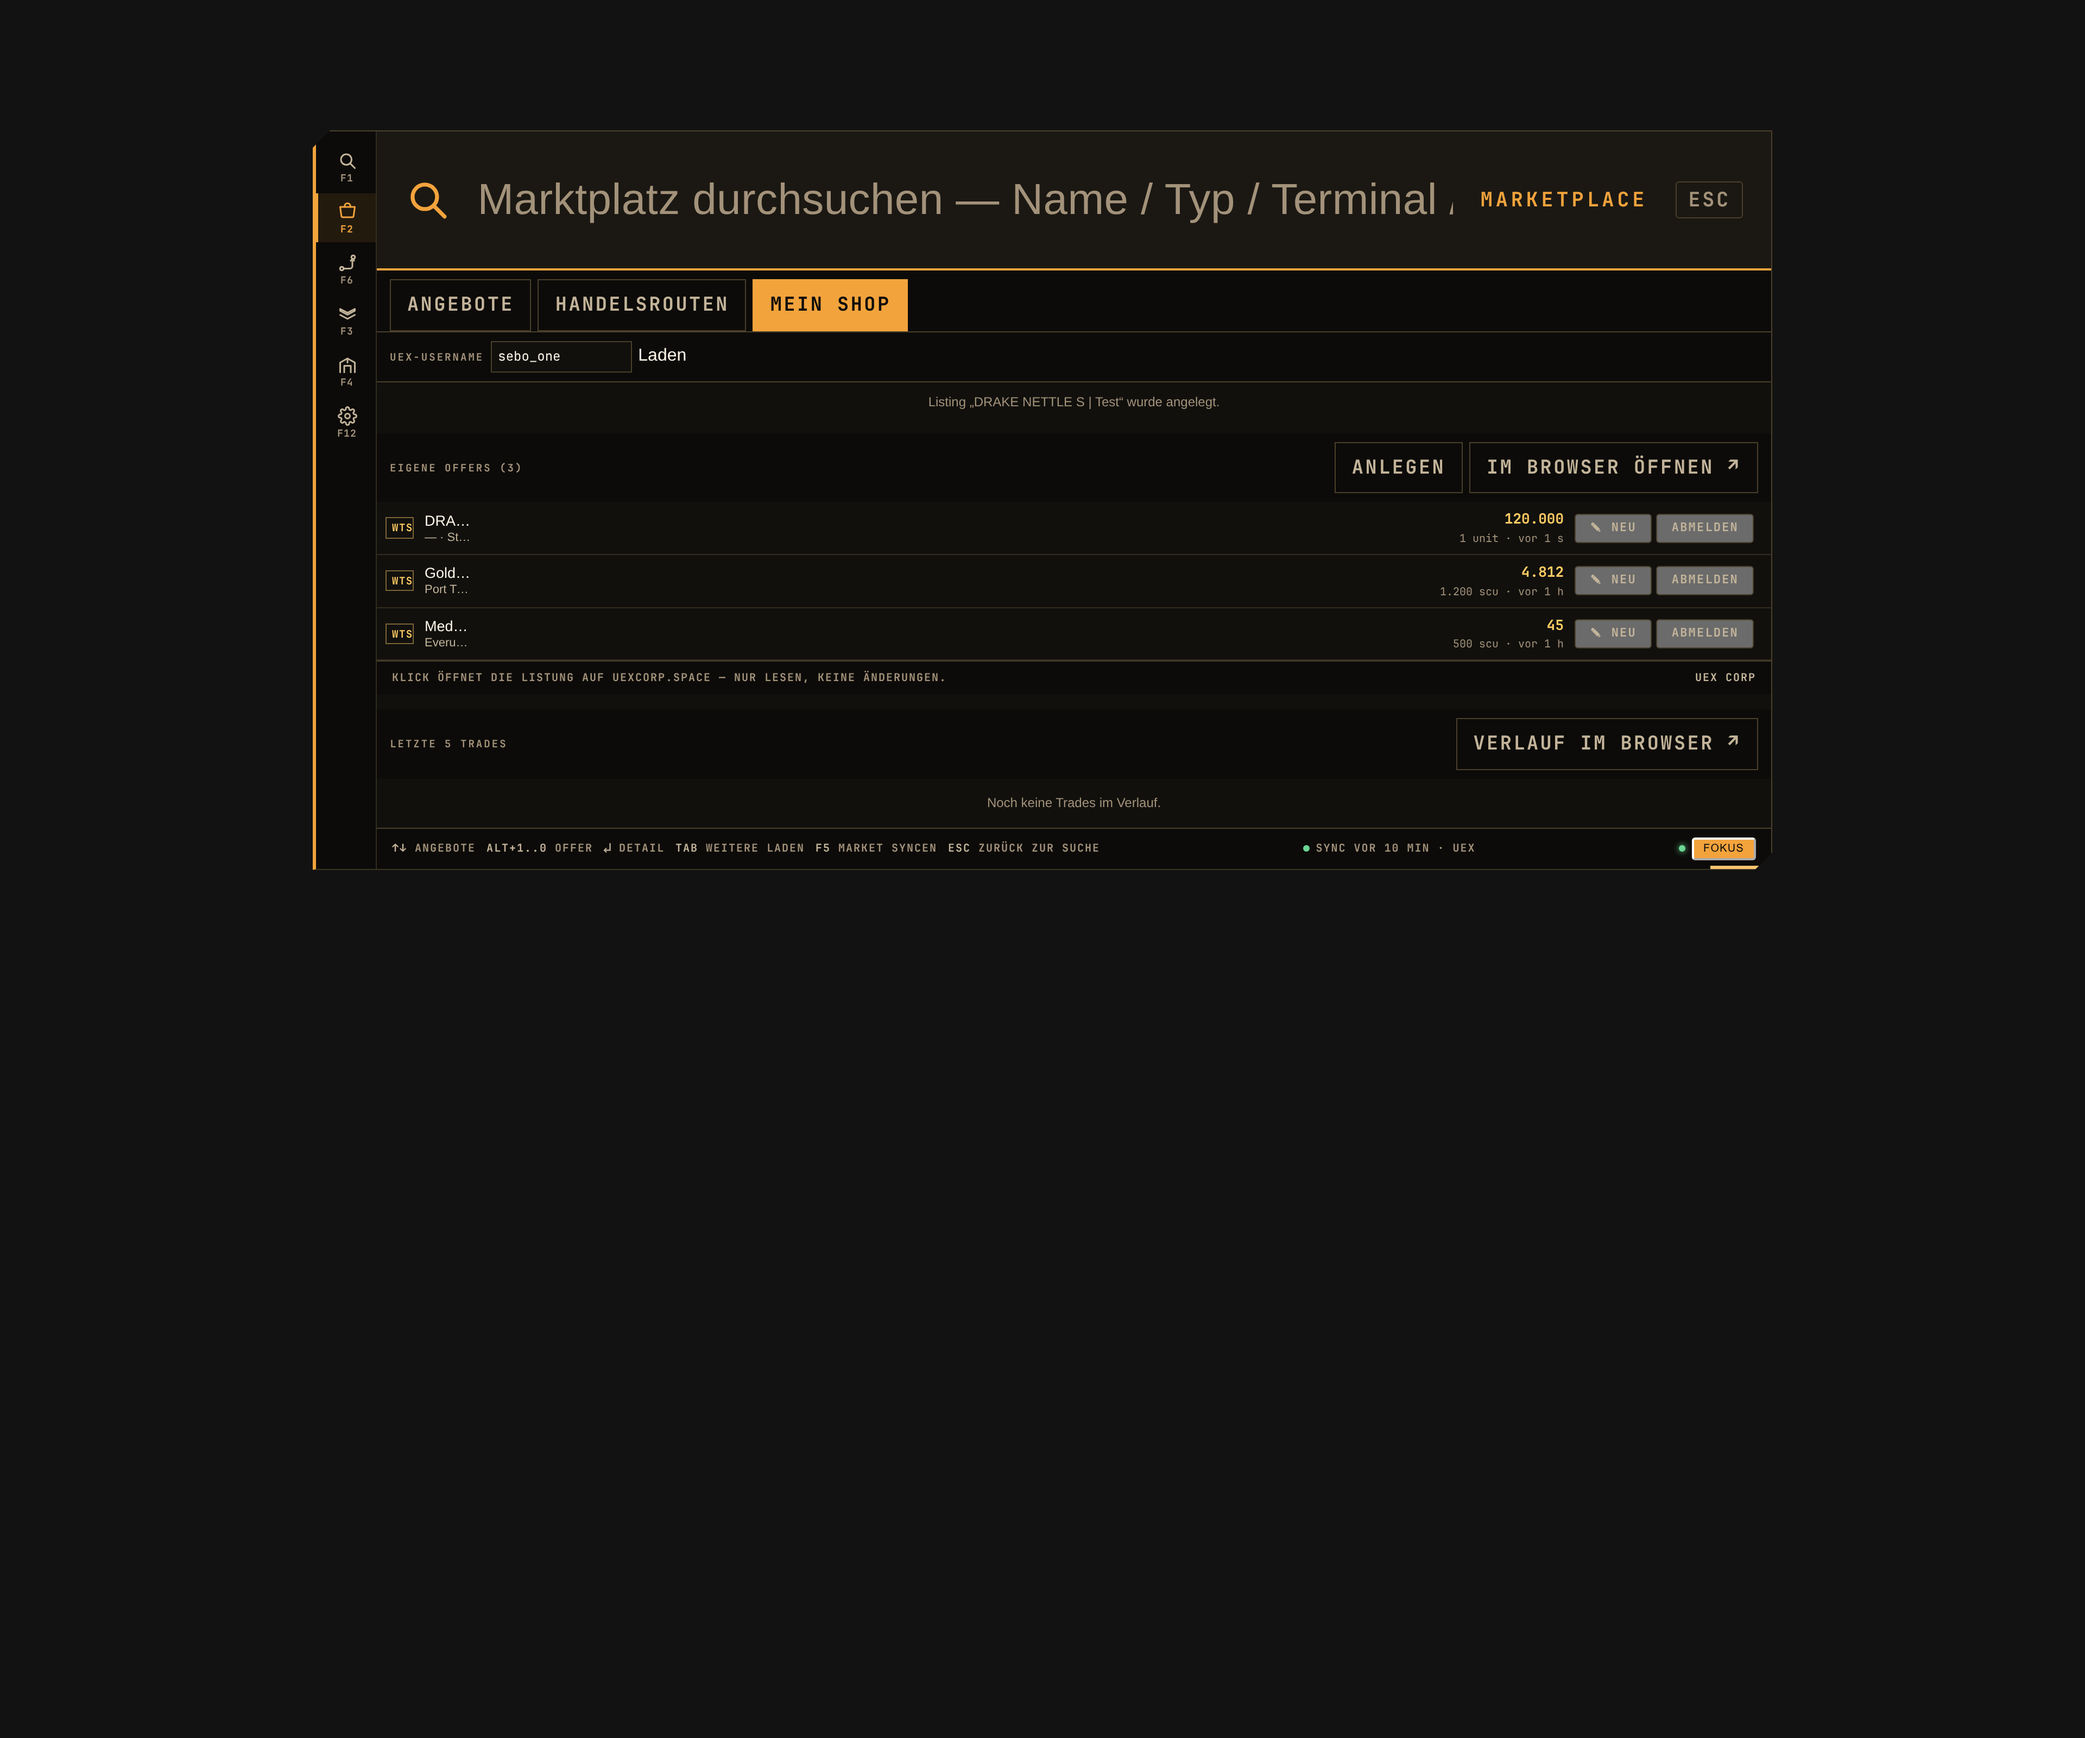
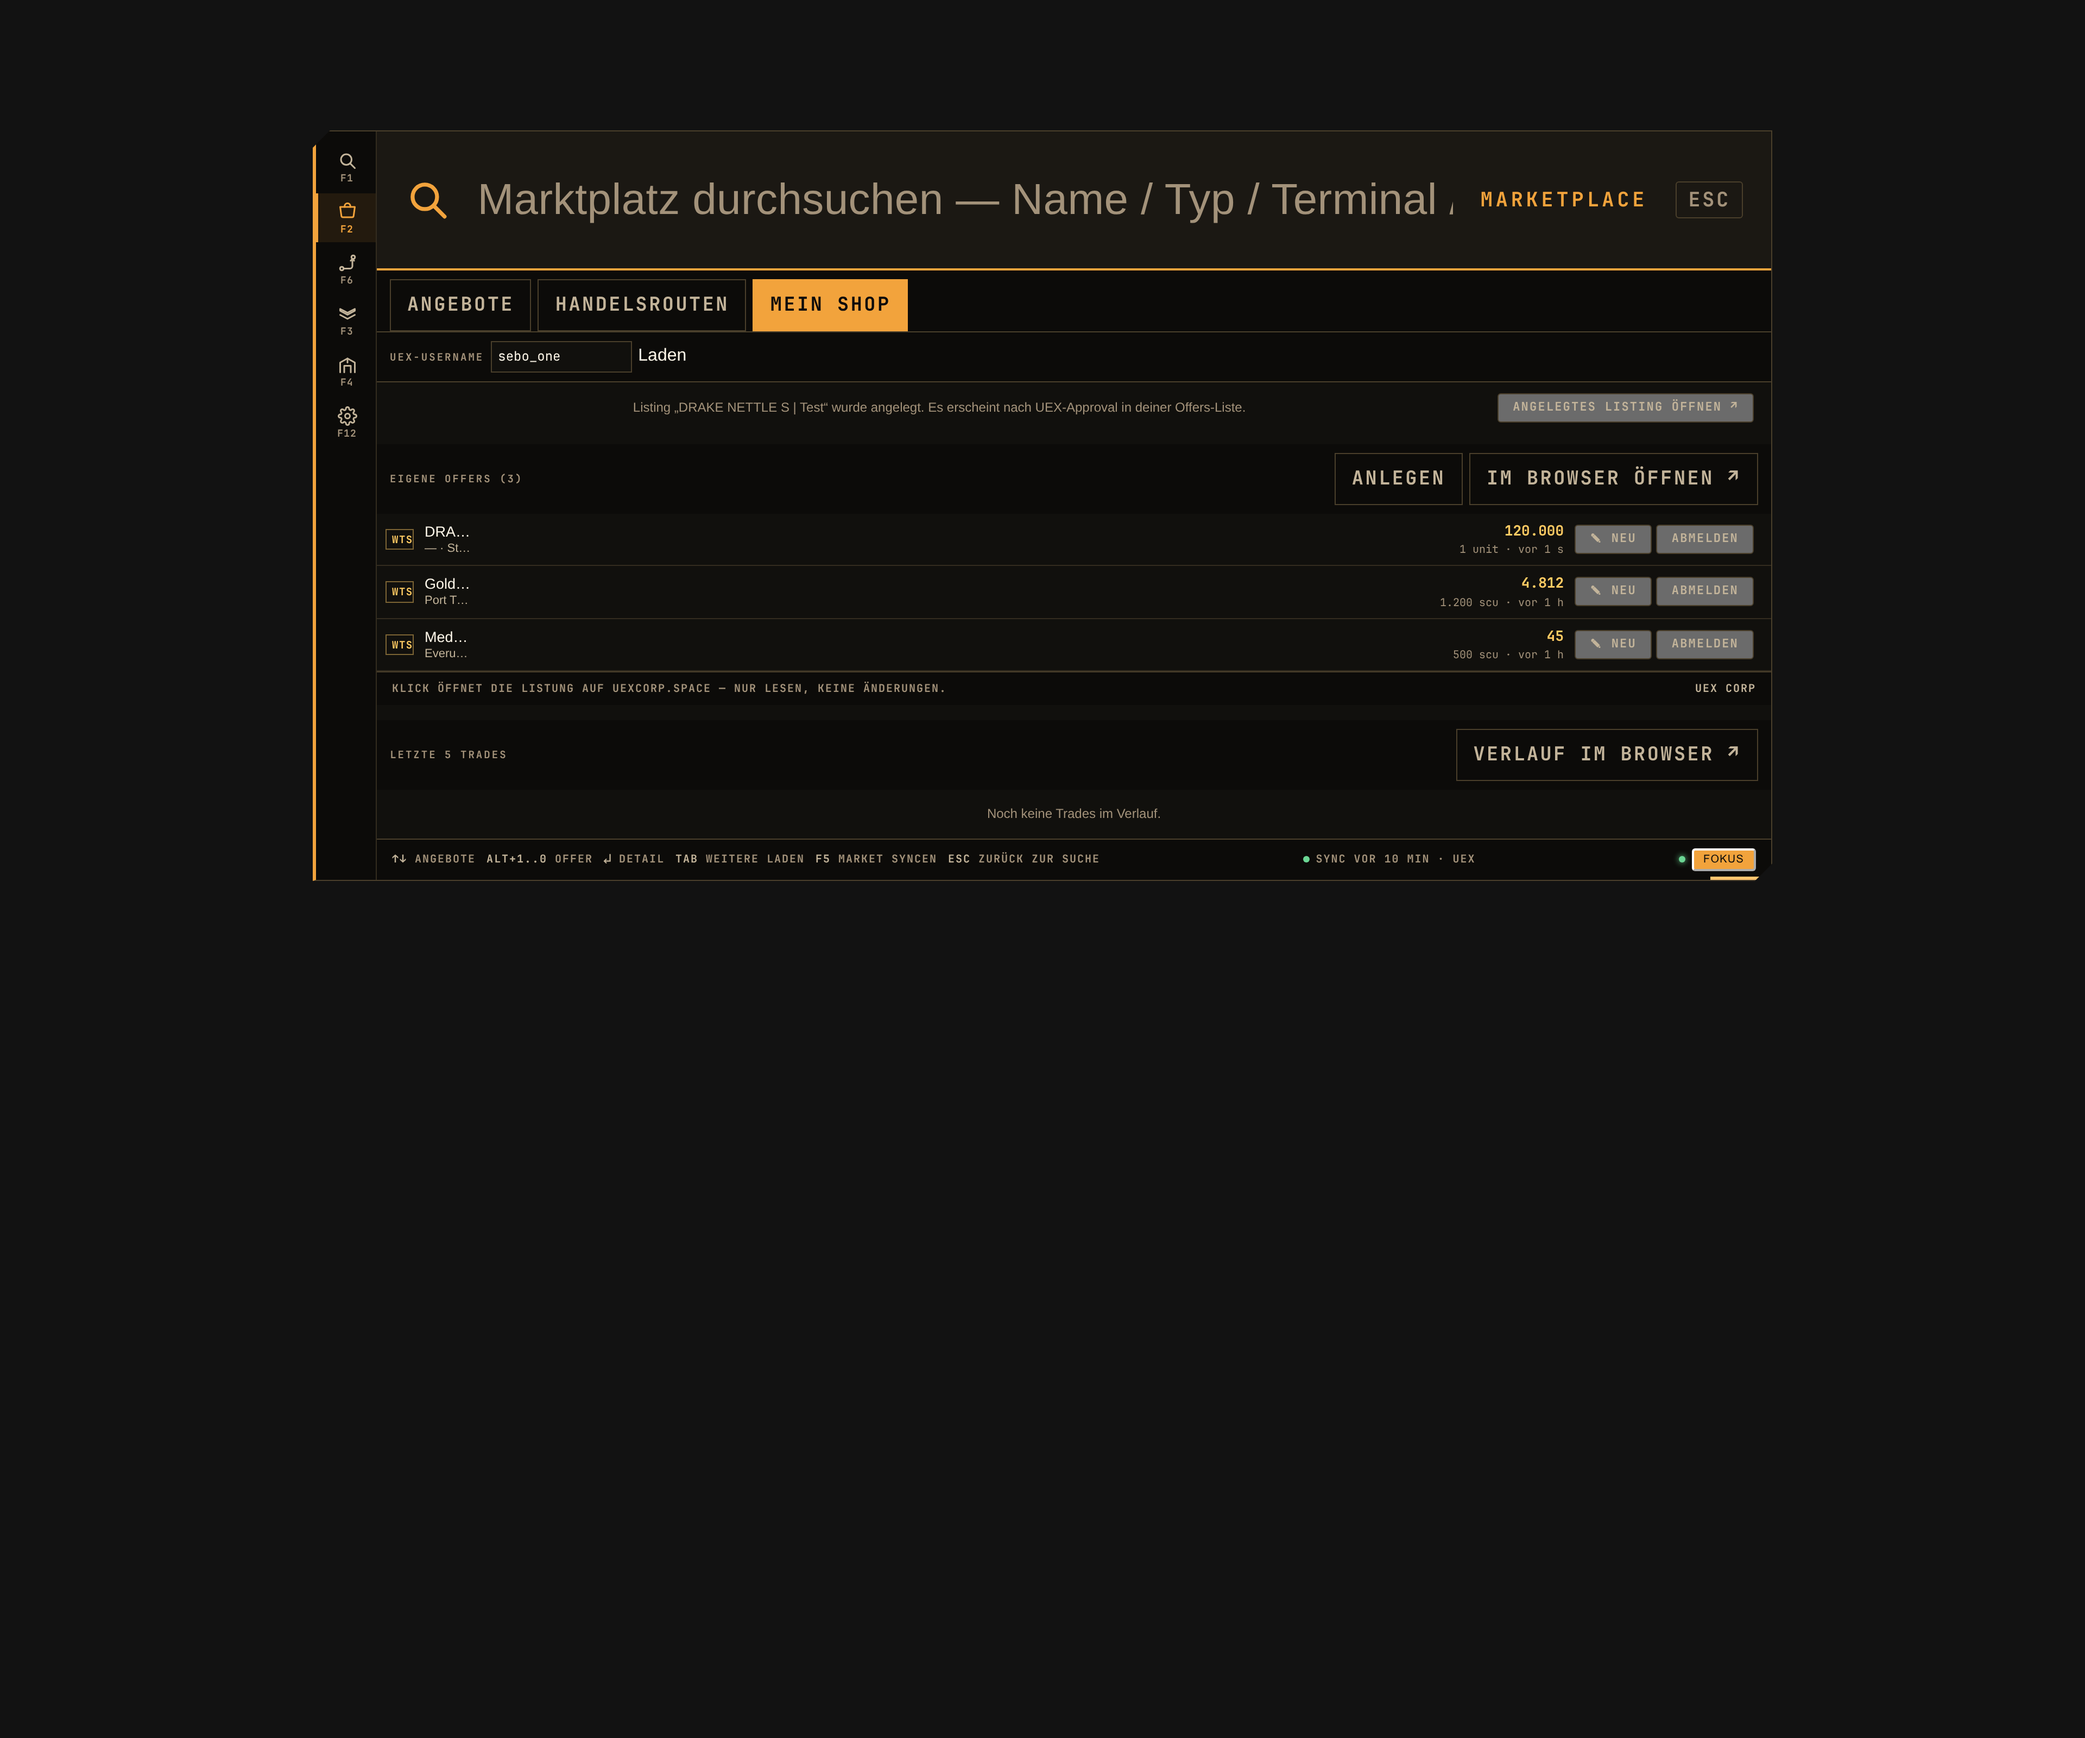
M2b Fix t_6e26ec82 R2 (Belege): Probe W1 assertet Erfolgs-Deep-Link {id,url} aus der Create-Response; Stub gibt url zurück

diff --git a/docs/scripts/smoke-stub.js b/docs/scripts/smoke-stub.js
@@ -169,6 +169,10 @@ window.__TAURI_INTERNALS__ = {
 				if (window.__SHOP_WRITE_FAIL__) throw new Error(window.__SHOP_WRITE_ERR__ || 'HTTP 429 · Rate-Limit erreicht');
 				const nid = 90000 + Math.floor(Math.random() * 9000);
 				const p = a.payload || {};
+				// M2b-Review-Fix (t_6e26ec82 R2): die Create-Antwort von UEX ist
+				// KEIN Offer — `{ id, url }` (der Deep-Link der Listung). Daran
+				// hängt die UI-Erfolgsmeldung, NICHT an einem Pull.
+				const url = 'https://uexcorp.space/marketplace/item/info/neu-' + nid;
 				// Neues Listing an den OWN-OFFERS-Array anfügen (Pull im UI zeigt es).
 				window.__SHOP_OFFERS__ = [{
 					id: nid, title: p.title || 'Neu', description: p.description || '',
@@ -180,7 +184,7 @@ window.__TAURI_INTERNALS__ = {
 					slug: 'neu-' + nid
 				}, ...window.__SHOP_OFFERS__];
 				window.__SHOP_OFFERS_SOURCE__ = 'live';
-				return { id: nid, title: p.title || 'Neu' };
+				return { id: nid, url: url };
 			}
 			case 'marketplace_delete': {
 				if (window.__SHOP_WRITE_FAIL__) throw new Error(window.__SHOP_WRITE_ERR__ || 'HTTP 403 · UEX nicht erreichbar');

diff --git a/docs/scripts/shop-write-probe.py b/docs/scripts/shop-write-probe.py
@@ -248,6 +248,13 @@ async def main():
                 except Exception:
                     pass
         check("w1-payload-carries-id_category", isinstance(payload_cat, int) and payload_cat > 0, "id_category=" + str(payload_cat))
+        # M2b-Review-Fix (t_6e26ec82 R2): Erfolgsmeldung + Deep-Link hängen an
+        # der Create-Antwort `{ id, url }` (NICHT am Pull — frische Listings
+        # erscheinen erst nach UEX-Approval). PULL: lokale Liste neu laden.
+        success_note = await js("document.body.innerText.includes('wurde angelegt.')")
+        check("w1-success-note", success_note is True)
+        success_link = await js("(function(){var b=[...document.querySelectorAll('button, .btn-ghost')].find(function(x){return (x.textContent||'').includes('ANGELEGTES LISTING');}); return !!b;})()")
+        check("w1-success-deeplink", success_link is True, "Deep-Link aus Create-Response")
         # PULL: neues Listing ist in der Offers-Liste sichtbar.
         title_shown = await js("document.body.innerText.includes('DRAKE NETTLE S | Test')")
         check("w1-pull-shows-new-offer", title_shown is True)
